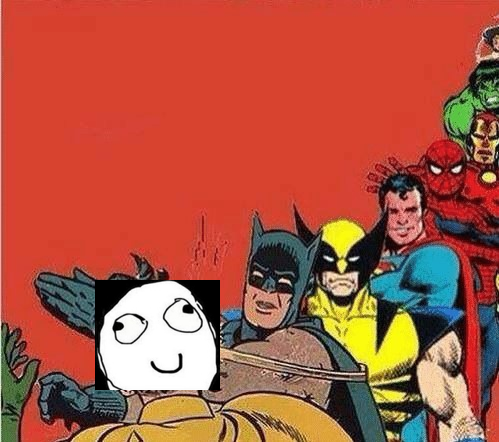
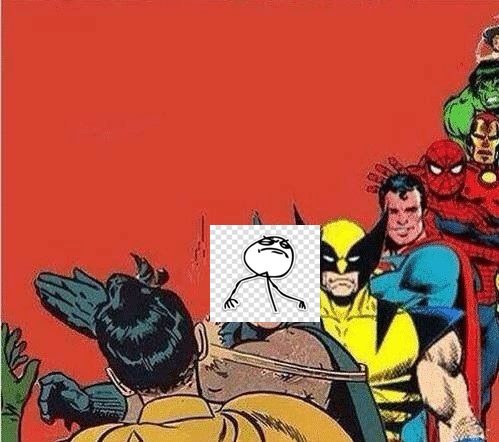
Nicole v3 New interactions

Changed region(s): [[0.1804, 0.5, 0.6613, 0.8824]]

diff --git a/bot.py b/bot.py
@@ -1,4 +1,4 @@
-import logging, os, aiml, requests, pickle, random, string, re
+import logging, os, aiml, requests, random, string, re
 import telegram as tg
 
 from PIL import Image
@@ -21,12 +21,9 @@ class NicoleBot:
         logging.basicConfig(format='%(asctime)s - %(name)s - %(levelname)s - %(message)s', level=logging.INFO)
         self.logger = logging.getLogger(__name__)
 
-        self.iig = pickle.load(open("iig.pickle", "rb"))
-
         self.main_menu =[
-                            [tg.InlineKeyboardButton('Image based APIs 🌆', callback_data="image")],
-                            [tg.InlineKeyboardButton('Text based APIs 📝', callback_data="text")],
-                            [tg.InlineKeyboardButton('Utilities 🛠', callback_data="tools")],
+                            [tg.InlineKeyboardButton('Image APIs 🌆', callback_data="image"), tg.InlineKeyboardButton('Text APIs 📝', callback_data="text")],
+                            [tg.InlineKeyboardButton('Services & Utilities 🛠', callback_data="tools")],
                             [tg.InlineKeyboardButton('Cancel Op ❌', callback_data='cancel')]
                         ]
         self.image_menu=[
@@ -37,30 +34,33 @@ class NicoleBot:
                             [tg.InlineKeyboardButton('◀ Back', callback_data='back'), tg.InlineKeyboardButton('Cancel Op ❌', callback_data='cancel')]
                         ]
         self.text_menu =[
-                            [tg.InlineKeyboardButton('Quote of the Day 💯', callback_data='quote')],
-                            [tg.InlineKeyboardButton('Irish Insults 🇮🇪', callback_data='iig'), tg.InlineKeyboardButton('Rare Insults 💥', callback_data='rare')],
-                            [tg.InlineKeyboardButton('Kanye REST 🧭', callback_data='kanye'), tg.InlineKeyboardButton('Donald Grump 🎺', callback_data='trump')], 
                             [tg.InlineKeyboardButton('Daily Activity 🎬', callback_data='daily')],
+                            [tg.InlineKeyboardButton('Quote of the Day 💯', callback_data='quote'), tg.InlineKeyboardButton('Fact of the Day 🤯', callback_data='facts')],
+                            [tg.InlineKeyboardButton('Kanye REST 🧭', callback_data='kanye'), tg.InlineKeyboardButton('Donald Grump 🎺', callback_data='trump')], 
+                            [tg.InlineKeyboardButton('A Literati\'s Wet Dream 🎶', callback_data='poems')],
                             [tg.InlineKeyboardButton('◀ Back', callback_data='back'), tg.InlineKeyboardButton('Cancel Op ❌', callback_data='cancel')]
                         ]
         self.tool_menu =[
-                            [tg.InlineKeyboardButton('Bored Button 🥱', callback_data='rdm')],
+                            [tg.InlineKeyboardButton('Useful Websites </>', callback_data='web')],
+                            [tg.InlineKeyboardButton('Bored Button 🥱', callback_data='rdm'), tg.InlineKeyboardButton('Age Predictor 🔞', callback_data='age')],
                             [tg.InlineKeyboardButton('10 Digit Password Generator', callback_data='pwd')],
-                            [tg.InlineKeyboardButton('Age Predictor 🔞', callback_data='age')],
                             [tg.InlineKeyboardButton('◀ Back', callback_data='back'), tg.InlineKeyboardButton('Cancel Op ❌', callback_data='cancel')]
                         ]
 
     def start(self, update, context):
-        self.kernel.setPredicate("name", "Chodi")
+        self.kernel.setPredicate("name", "Stranger")
         reply_markup = tg.InlineKeyboardMarkup(self.main_menu)
-        intro = """Hi! I am *Nicole*, a conversational chatbot. \n\nUse the menu for tools or send a text to chat. \nGLHF"""
+        intro = """Hi! I am *Nicole*, a conversational chatbot. \n\nUse the /menu for tools or send a text to chat. \nGLHF"""
+        menu = "Choose your poison: "
+        if "/menu" in update.message.text:
+            update.message.reply_text(menu, reply_markup=reply_markup)
+        elif "/start"in update.message.text:
+            update.message.reply_text(intro, parse_mode="Markdown")
 
-        update.message.reply_text(intro, reply_markup=reply_markup, parse_mode="Markdown")
-
-    def update_chat(self, context, chat_id, message_id, menu):
+    def update_chat(self, context, chat_id, message_id, menu, text="Choose your Poison :"):
         context.bot.delete_message(chat_id=chat_id, message_id=message_id)
         reply_markup = tg.InlineKeyboardMarkup(menu)
-        context.bot.send_message(chat_id=chat_id, text='Choose your Poison :', reply_markup=reply_markup)
+        context.bot.send_message(chat_id=chat_id, text=text, reply_markup=reply_markup)
 
     def menu_actions(self, update, context):
         query=update.callback_query
@@ -95,9 +95,9 @@ class NicoleBot:
 
         if query.data == 'kitty':
             kitty = requests.get(CAT_PIC_URL).json()['url']
-            caption = requests.get(CAT_CAP_URL).json()['text']
+            # caption = requests.get(CAT_CAP_URL).json()['text']
 
-            context.bot.send_photo(photo=kitty, caption="Cat Fact - "+caption, chat_id=query.message.chat.id)
+            context.bot.send_photo(photo=kitty, caption="Cat Fact - "+"Random Cat Fact expected here. Error occured", chat_id=query.message.chat.id)
             self.update_chat(context, query.message.chat.id, query.message.message_id, self.image_menu)
 
         if query.data == 'human':
@@ -141,18 +141,6 @@ class NicoleBot:
             context.bot.send_message(chat_id=query.message.chat.id, text=msg, parse_mode="Markdown")
             self.update_chat(context, query.message.chat.id, query.message.message_id, self.text_menu)
 
-        if query.data == 'iig':
-            insult = (' ').join([random.choice(self.iig['subject']), random.choice(self.iig['adjective']), random.choice(self.iig['noun']), random.choice(self.iig['predicate'])])
-            msg = "An Irish man walked into the bar and said \n\n_{}_".format(insult)
-            context.bot.send_message(chat_id=query.message.chat.id, text=msg, parse_mode="Markdown")
-            self.update_chat(context, query.message.chat.id, query.message.message_id, self.text_menu)
-        
-        if query.data == 'rare':
-            insult = requests.get(INSULT_URL).json()['insult']
-            msg = "Sure you can handle it? Here you go... \n\n_{}_".format(insult)
-            context.bot.send_message(chat_id=query.message.chat.id, text=msg, parse_mode="Markdown")
-            self.update_chat(context, query.message.chat.id, query.message.message_id, self.text_menu)
-
         if query.data == 'kanye':
             response = requests.get(KANYE_URL).json()
             msg = "Kanye REST once said, \n\n_{}_".format(response['quote'])
@@ -167,7 +155,19 @@ class NicoleBot:
         
         if query.data == 'daily':
             response = requests.get(DAILY_URL).json()
-            msg = "Bored out your mind? \nI can suggest you something to try something out. \n\n*Activity* - {}\n*Type* - {}\n*Participants Suggested* - {}\n\n_Take it as a challenge ;)_".format(response["activity"], response["type"], response["participants"])
+            msg = "Bored out your mind? \nI can suggest you something to try something out. \n\nActivity - *{}*\nType - *{}*\nParticipants Suggested - *{}*\n\n_Take it as a challenge ;)_".format(response["activity"], response["type"], response["participants"])
+            context.bot.send_message(chat_id=query.message.chat.id, text=msg, parse_mode="Markdown")
+            self.update_chat(context, query.message.chat.id, query.message.message_id, self.text_menu)
+
+        if query.data == 'facts':
+            response = requests.get(FACTS_URL).json()
+            msg = "Did you know, \n\n_{}_".format(response['text'])
+            context.bot.send_message(chat_id=query.message.chat.id, text=msg, parse_mode="Markdown")
+            self.update_chat(context, query.message.chat.id, query.message.message_id, self.text_menu)
+        
+        if query.data == 'poems':
+            response = random.choice(requests.get(POEMS_URL).json())
+            msg = "*{}* \n\n{} \n\nBy *{}*".format(response['title'], response['content'], response['poet']['name'])
             context.bot.send_message(chat_id=query.message.chat.id, text=msg, parse_mode="Markdown")
             self.update_chat(context, query.message.chat.id, query.message.message_id, self.text_menu)
 
@@ -197,12 +197,18 @@ class NicoleBot:
             context.bot.send_message(chat_id=query.message.chat.id, text=msg, parse_mode="Markdown")
             self.update_chat(context, query.message.chat.id, query.message.message_id, self.tool_menu)
         
+        if query.data == 'web':
+            msg = USEFUL_WEBSITE_URL
+            context.bot.send_message(chat_id=query.message.chat.id, text=msg, parse_mode="Markdown")
+            self.update_chat(context, query.message.chat.id, query.message.message_id, self.tool_menu)
+
     def dev(self, update, context):
         info = "Made with Py3 and AIML. \nFor any queries contact [a_ignorant_mortal](https://t.me/a_ignorant_mortal) \n\nMore about the dev: [Linktree](https://linktr.ee/ign_mortal)"
         update.message.reply_text(info, parse_mode="Markdown")
 
     def slap(self, update, context):
         chat_id = update.message.chat.id
+        mention = update.message.text[5:].strip()
         # user_id = int(str(update).split("'id': ")[-1].split(',')[0])
         user_id = int(re.findall(r'[0-9]+', str(update.message))[-1])
 
@@ -212,16 +218,34 @@ class NicoleBot:
 
         slap = Image.open("static/slap.jpg")
         profile = Image.open(requests.get(file_path, stream=True).raw)
-        resized_im = profile.resize((round(slap.size[0]*0.25), round(slap.size[1]*0.25)))
+        resized_im = profile.resize((round(slap.size[0]*0.22), round(slap.size[1]*0.22)))
 
-        slap.paste(resized_im, (95,280))
+        # slap.paste(resized_im, (95,280))
+        slap.paste(resized_im, (210, 225))
         slap.save('static/slapped.png', 'PNG')
 
-        context.bot.send_photo(photo=open('static/slapped.png', 'rb'), caption="You get what you f'in deserve", chat_id=chat_id, parse_mode="Markdown")
+        if mention == '':
+            msg = "You get what you f'in deserve."
+        else:
+            msg = "{}, You get what you f'in deserve.".format(mention)
+
+        context.bot.send_photo(photo=open('static/slapped.png', 'rb'), caption=msg, chat_id=chat_id, parse_mode="Markdown")
+
+    def roast(self, update, context):
+        mention = update.message.text[6:].strip()
+        insult = requests.get(INSULT_URL).json()['insult']
+        msg = ", ".join([mention, insult])
+        if mention == '':
+            context.bot.send_message(chat_id=update.message.chat.id, text=insult, parse_mode="Markdown")
+        else:
+            context.bot.send_message(chat_id=update.message.chat.id, text=msg, parse_mode="Markdown")
 
     def respond(self, update, context):
         update.message.reply_text(self.kernel.respond(update.message.text))
 
     def error(self, update, context):
         self.logger.warning('Update "%s" caused error "%s"', update, context.error)
+        print(update)
+        msg = "Hmmm. Something went wrong. This wasn't supposed to happen though. Please try something else while we look into it. ʘ‿ʘ"
+        self.update_chat(context, update.callback_query.message.chat.id, update.callback_query.message.message_id, self.main_menu, text=msg)
 

diff --git a/config.py b/config.py
@@ -11,7 +11,8 @@ NAMO_URL = "https://namo-memes.herokuapp.com/memes/1"
 
 QUOTE_URL = "https://api.quotable.io/random"
 INSULT_URL = "https://evilinsult.com/generate_insult.php?lang=en&type=json"
-
+FACTS_URL = "https://uselessfacts.jsph.pl//random.json?language=en"
+POEMS_URL = "https://www.poemist.com/api/v1/randompoems"
 KANYE_URL = "https://api.kanye.rest/"
 TRUMP_URL = "https://api.whatdoestrumpthink.com/api/v1/quotes/random"
 DAILY_URL = "https://www.boredapi.com/api/activity/"
@@ -19,3 +20,16 @@ DAILY_URL = "https://www.boredapi.com/api/activity/"
 RANDOM_WEBSITE_URL = "https://www.boredbutton.com/random"
 
 AGE_URL = "https://api.agify.io/"
+
+USEFUL_WEBSITE_URL = """
+*Services*
+Assemble all your links - [LinkTree](https://linktr.ee/)
+Disposable temporary email - [Temp Mail](https://temp-mail.org/en/)
+Internet spped test - [Pure Speed](http://openspeedtest.com/?ref=OST-Results)
+
+*Utilities*
+Free web apps - [123apps](https://123apps.com/)
+Extract mp3 from youtube videos - [Youtube to MP3](https://y2mate.guru/en4/youtube-to-mp3/)
+Convert any file online - [Cloud Convert](https://cloudconvert.com/)
+Remove background from image - [Remove.bg](https://www.remove.bg/upload)
+"""

diff --git a/rdm.py b/rdm.py
@@ -1,4 +1,5 @@
-import requests
+from config import POEMS_URL
+import requests, random
 from flask import Flask
 from bs4 import BeautifulSoup
 from PIL import Image
@@ -9,11 +10,11 @@ from PIL import Image
 # # im.show()
 
 # #Make the new image half the width and half the height of the original image
-# resized_im = im2.resize((round(im.size[0]*0.25), round(im.size[1]*0.25)))
+# resized_im = im2.resize((round(im.size[0]*0.22), round(im.size[1]*0.22)))
 
 
-# im.paste(resized_im, (95,280))
-# #Display the resized imaged
+# im.paste(resized_im, (210,225))
+# # Display the resized imaged
 # im.show()
 # rdm = requests.get('https://www.boredbutton.com/random')
 # soup = BeautifulSoup(rdm.text, features="html.parser")
@@ -21,7 +22,3 @@ from PIL import Image
 
 # im = Image.open(requests.get('https://thiscatdoesnotexist.com', stream=True).raw)
 # im.save('pig.png', "PNG")
-
-
-# print(requests.get("https://evilinsult.com/generate_insult.php?lang={}&type=json".format('en')).json()['insult'])
-

diff --git a/app.py b/app.py
@@ -16,8 +16,12 @@ def app():
     dp = updater.dispatcher
 
     dp.add_handler(CommandHandler("start", nicole.start))
+    dp.add_handler(CommandHandler("menu", nicole.start))
+
     dp.add_handler(CommandHandler("dev", nicole.dev))
     dp.add_handler(CommandHandler("slap", nicole.slap))
+    dp.add_handler(CommandHandler("roast", nicole.roast))
+
     dp.add_handler(CallbackQueryHandler(nicole.menu_actions))
     dp.add_handler(MessageHandler(Filters.text, nicole.respond))
 
